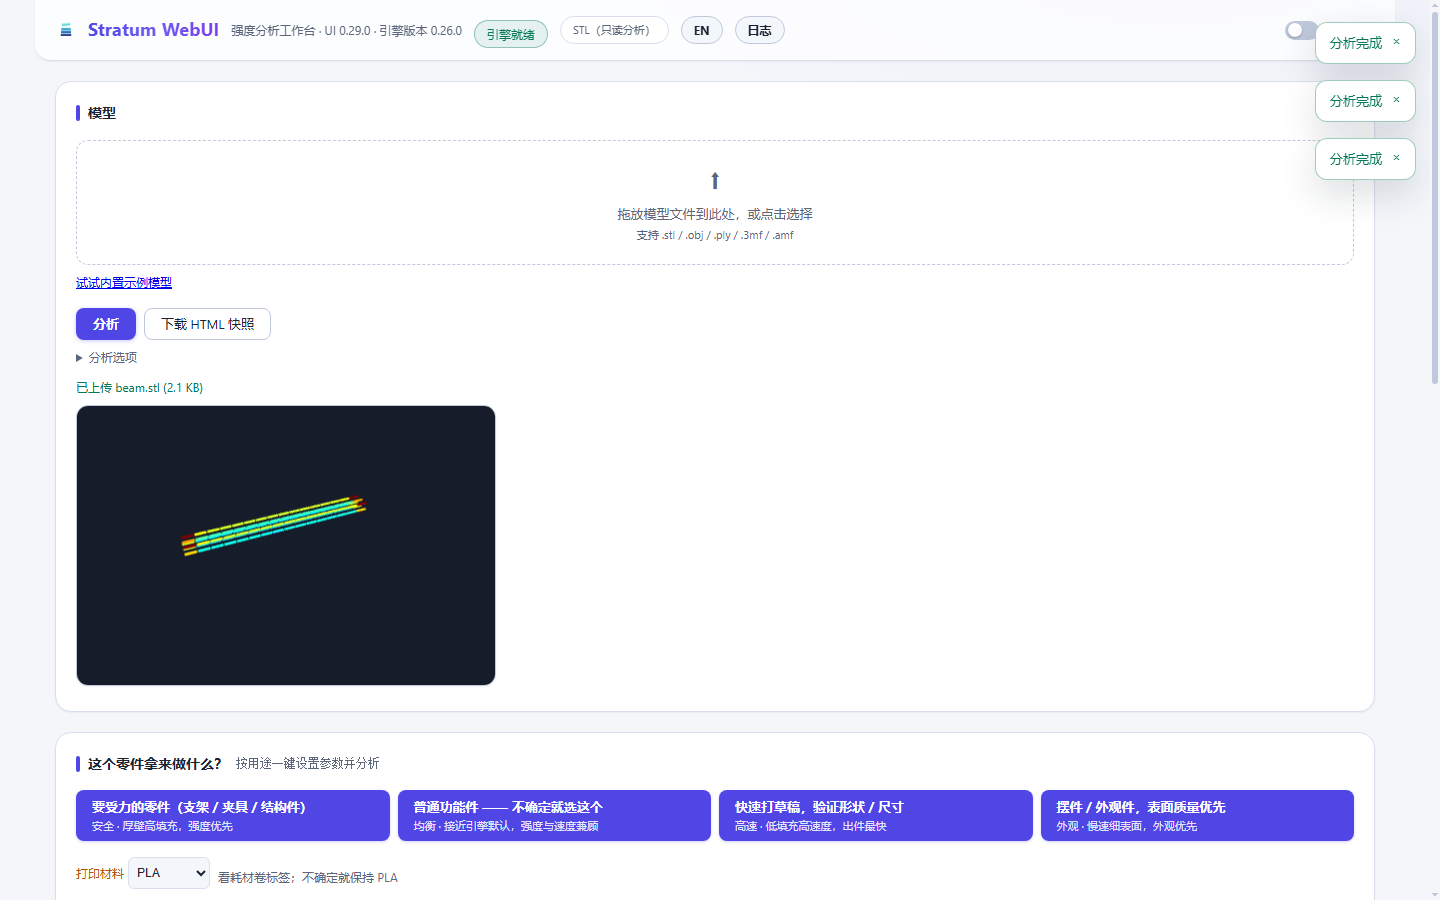
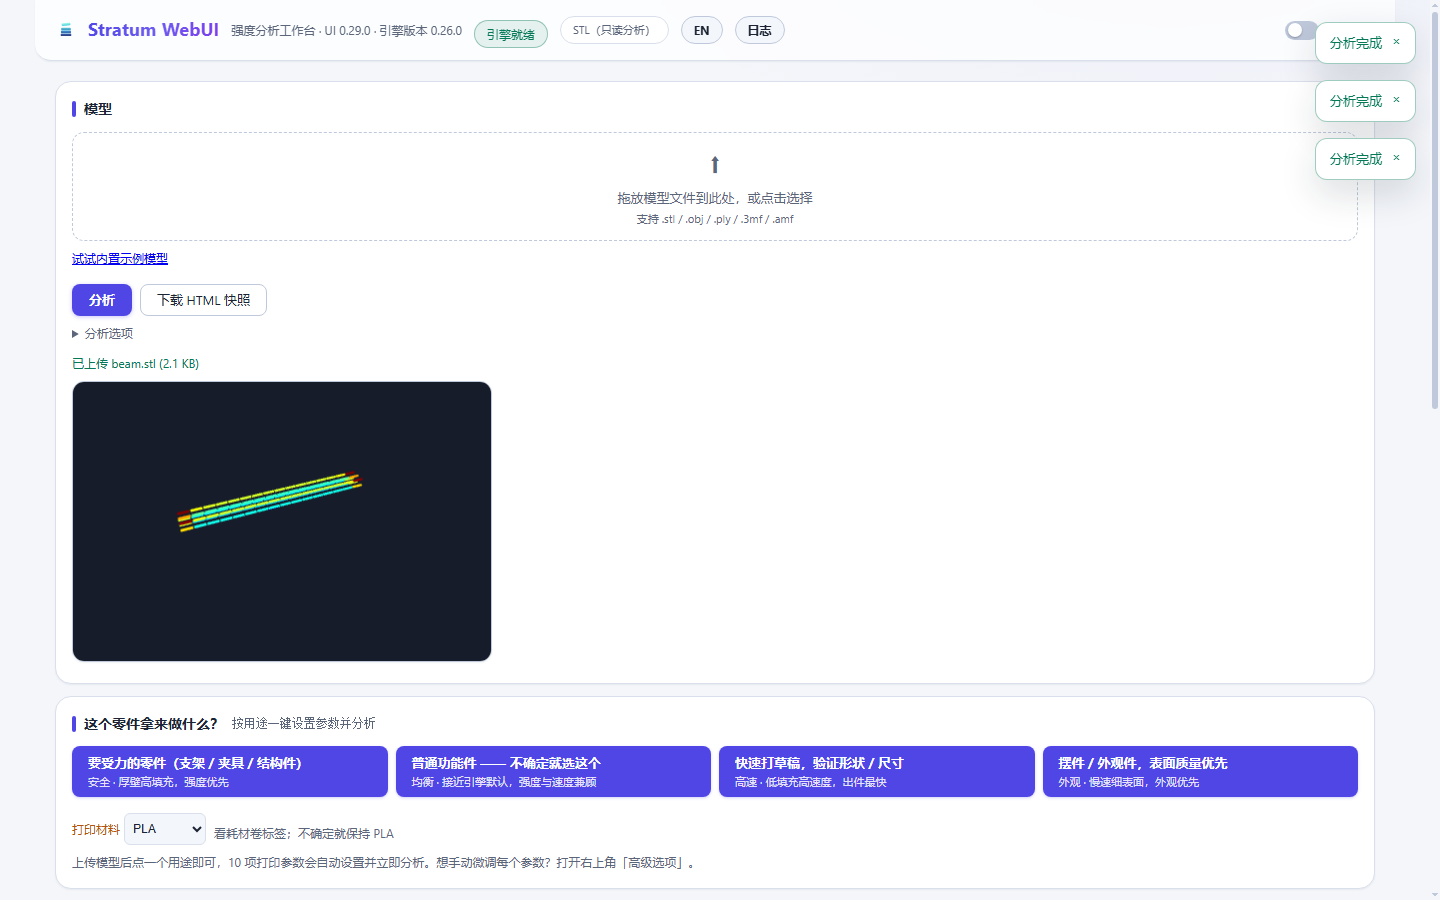
feat(webui): debt-payment round — page-height budget guarded in E-suite with risky-shape reclaim, popup panel-swap orphan closed, interlaminar dead key removed (v0.30.0)
C1: refuter-exposed live regression — risky beam (rank2 simple page) measured
2408px vs the 2200 budget while the canonical shape sat at 2118; density pass
(simple-mode scoped: panel rhythm, risk-item one-lining, ui-drop) reclaims to
2137/1986, and E13h+E17h now assert scrollHeight<=2200 on every suite pass
(ad-hoc tests/_height_v029.js superseded, deleted). mode-simple asserted
positively (mode-advanced is never assigned — negation would be a dead limb).
C2: showGcodeResultPanel now closes the term popup at the panel-swap funnel
(last orphan site outside renderReport's hook); guard triggers the swap by
direct call (guard-masking-e2e discipline) and asserts the open step itself.
C3: TERM_INFO.interlaminar deleted as a dead key (zero termQ consumers) along
with its LANG_EN entry; render pin at :840 verified to bite on the
delamination text (label renamed to match what it actually checks).
C4/C5/C6: engine probe + mismatch verdict recorded in loop-journal (PETG
cross-section yields 2 applyable but exhausts in one round — multi-round
auto-tune E2E stays synthetic; mismatch zero-constellation is multi-cause,
UI must state facts not causes — implementation deferred to v0.31).

smoke 157/157, render_check 195, ux_alignment all green (+3 guards),
browser/browser_en/i18n(0)/consistency green; sabotage x4 all red all
reverted.

diff --git a/tests/ux_alignment_check.js b/tests/ux_alignment_check.js
@@ -616,6 +616,24 @@ async function main() {
            && sampleState.autoTune === false,
            JSON.stringify(sampleState));
 
+    // ---- E13h (v0.30) page-height budget: canonical beam, simple mode ----
+    // The ≤2200px budget (@1440×900, ROADMAP/README) lived in a comment +
+    // an ad-hoc script nobody re-ran (+176px crept in over v0.19–v0.27,
+    // v0.29 B3) — now it is guarded on every suite pass. Conditions match
+    // the published口径: fresh sample session, simple mode, detail wall
+    // folded, toasts position:fixed (never in scrollHeight); the beat
+    // lets the toast fade finish. mode-simple is asserted POSITIVELY
+    // (a `!mode-advanced` limb would be a always-true dead check — the
+    // class is never assigned anywhere).
+    await sleep(600);
+    const hA = JSON.parse(await evalJs("(function(){return JSON.stringify({" +
+      "h:document.documentElement.scrollHeight," +
+      "simple:document.body.classList.contains('mode-simple')," +
+      "wallOpen:document.body.classList.contains('detail-open')})})()"));
+    expect("E13h height: canonical beam simple page ≤2200 (budget)",
+           hA.simple === true && hA.wallOpen === false && hA.h <= 2200,
+           JSON.stringify(hA));
+
     // ---- E14 (v0.27) use-case preset cards + the material question -------
     const pq = JSON.parse(await evalJs("(function(){var h=" +
       "document.querySelector('#preset-panel h2');" +
@@ -796,6 +814,24 @@ async function main() {
     await waitDone("re-run for orphan guard");
     expect("E17 popup: re-render closes the card (no orphan on dead trigger)",
            !(await evalJs("!!document.getElementById('term-pop')")));
+    // panel-swap orphan (v0.30 C2): open a card, then swap the right column
+    // to the gcode result with a DIRECT call — a click-based trigger would
+    // close the card via click-outside and mask the guard (guard-masking-e2e,
+    // same discipline as the re-render guard above). The open step itself
+    // is asserted: without it a missing .term-q would idle through to a
+    // vacuous green (refuter 104).
+    const popOpened = await evalJs("(function(){var q=document.querySelectorAll('.term-q');" +
+      "if(!q.length)return false;q[0].click();" +
+      "return !!document.getElementById('term-pop')})()");
+    const swapOrphan = await evalJs("(function(){" +
+      "if(typeof showGcodeResultPanel!=='function')return 'nofn';" +
+      "showGcodeResultPanel(true);" +
+      "var gone=!document.getElementById('term-pop');" +
+      "showGcodeResultPanel(false);" +  // restore the model result column
+      "return gone})()");
+    expect("E17 popup: gcode panel swap closes the card (direct call)",
+           popOpened === true && swapOrphan === true,
+           "opened=" + popOpened + " swap=" + swapOrphan);
     // error-card actions on the real page (no server dependency: direct call)
     const memBtns = await evalJs("(function(){renderAnalyzeError({error:'stratum.exe 失败 (rc=3): std::bad_alloc'});" +
       "var b=document.getElementById('analyze-error');" +
@@ -808,6 +844,21 @@ async function main() {
       "return b.style.display})()");
     expect("E17 error card: queue-full hint rendered then cleared",
        qHint === "none");
+
+    // ---- E17h (v0.30) page-height budget: risky beam = the worst shape ---
+    // rank2 carries every tall element at once (buckling banner + expanded
+    // risk card + auto-tune CTA + novice line + raw-fold summary); it
+    // measured 2408 before the v0.30 density pass while the canonical
+    // shape sat at 2118 — guarding only the comfortable fixture would
+    // have masked a live regression (refuter 104). Same口径 as E13h.
+    await sleep(600);
+    const hB = JSON.parse(await evalJs("(function(){return JSON.stringify({" +
+      "h:document.documentElement.scrollHeight," +
+      "simple:document.body.classList.contains('mode-simple')," +
+      "wallOpen:document.body.classList.contains('detail-open')})})()"));
+    expect("E17h height: risky beam simple page ≤2200 (worst shape)",
+           hB.simple === true && hB.wallOpen === false && hB.h <= 2200,
+           JSON.stringify(hB));
 
     console.log(fails === 0 ? "ux alignment E2E all green"
                             : fails + " FAILURES");

diff --git a/index.html b/index.html
@@ -523,9 +523,26 @@
      task-flow cap (centered, then left-aligned in v0.21) produced two
      panel widths on one page next to the full-width results stack — user
      verdict: stacked cards must be equal-width. Full-width it is; the
-     page-height budget (≤2200px on the beam sample, 1440×900) is re-
-     measured ad hoc per round (v0.18: 2197 → v0.27 accumulation broke it
-     at 2376 → v0.29 bars-to-wall reclaim: 2118). */
+     page-height budget (≤2200px on the beam sample, 1440×900) is GUARDED
+     in the ux_alignment suite since v0.30 (real beam runs E13h/E17h —
+     drift turns red instead of accumulating silently; history: v0.18 2197
+     → v0.27 accumulation 2376 → v0.29 bars-to-wall 2118 → v0.30 risky
+     shape 2408 → density pass below). */
+  /* v0.30 density pass (simple mode only — advanced keeps its roomier
+     rhythm): the risky-beam shape (rank2: banner + expanded risk card +
+     auto-tune CTA + novice line) measured 2408 against the same ≤2200
+     budget the canonical beam was reclaimed to in v0.29. Panel rhythm and
+     risk-list density carry the reclaim; no evidence is folded away (the
+     ⚠ auto-expand and the raw-table outlet invariant are untouched). */
+  body.mode-simple .panel { padding: var(--sp-4); margin-bottom: var(--sp-3); }
+  body.mode-simple .panel h2 { margin-bottom: var(--sp-3); }
+  body.mode-simple .ui-drop { padding: var(--sp-3) var(--sp-4); }
+  /* risk evidence: one flowing line per entry — the suggestion hint
+     inlines after the engine's description instead of taking its own
+     block row (halves the expanded card on real models with many risks) */
+  body.mode-simple .risk-item { padding: var(--sp-1) 0; }
+  body.mode-simple .risk-item .hint { display: inline; }
+  body.mode-simple .risk-item .hint::before { content: " "; }
   /* inverse of .advanced-only: flow-only chrome (step strip) — hidden
      whenever advanced mode is on */
   body:not(.mode-simple) .simple-only { display: none !important; }
@@ -2768,6 +2785,12 @@ var gcodeState = { mode: "score", a: null, b: null, t0: 0, timer: null };
 function showGcodeResultPanel(on) {
   $("gcode-result-panel").style.display = on ? "" : "none";
   $("result-panel").style.display = on ? "none" : "";
+  // v0.30: the term popup is a singleton on document.body and outlives its
+  // trigger rows — a panel swap hides (or rebuilds) the model result area
+  // but would leave the card hovering over nothing. This funnel is the
+  // last panel-swap site outside renderReport's own closeTermPop hook
+  // (refuter 102 minor; all three callers pass through here).
+  if (typeof closeTermPop === "function") closeTermPop();
 }
 
 function gcodeSyncMode() {
@@ -4430,8 +4453,8 @@ var LANG_EN = {
     "Hill48 yield criterion: accounts for FDM print anisotropy (X/Y/Z strength differs) — closer to real interlayer strength than isotropic von Mises.",
   "Weibull 统计强度：把材料内部缺陷分布计入的可靠性模型。Pf=失效概率，R=可靠度；等级 A+ 为最优。":
     "Weibull statistical strength: reliability model accounting for the internal defect distribution. Pf = failure probability, R = reliability; grade A+ is best.",
-  "层间强度（Z/XY）：FDM 件层与层之间靠热融合连接，Z 方向（垂直于层平面）通常只有 XY 的 30–60%，是最常见的失效面。":
-    "Interlayer strength (Z/XY): FDM layers bond by thermal fusion; Z (perpendicular to the layers) typically reaches only 30–60% of XY — the most common failure plane.",
+  // (v0.30) the standalone interlayer-strength TERM_INFO entry and its
+  // translation were removed together — dead key, zero consumers
   "分层（delamination）：层间结合失效，载荷沿层界面拉开——FDM 件在 Z 向载荷下的典型失效模式；与层间强度 Z/XY 直接相关。":
     "Delamination: interlayer bond failure, the load pulls along layer interfaces — the typical FDM failure mode under Z loads; directly related to the Z/XY interlayer strength.",
   "热应力：打印过程不均匀冷却留下的残余应力；服役温度变化会叠加到载荷应力上（引擎标注 (上界) 时为保守估计）。":

diff --git a/report.js b/report.js
@@ -11,7 +11,10 @@
 var TERM_INFO = {
   hill48: "Hill48 屈服准则：考虑 FDM 打印各向异性（X/Y/Z 方向强度不同）的屈服判定，比各向同性的 von Mises 更贴近层间真实强度。",
   weibull: "Weibull 统计强度：把材料内部缺陷分布计入的可靠性模型。Pf=失效概率，R=可靠度；等级 A+ 为最优。",
-  interlaminar: "层间强度（Z/XY）：FDM 件层与层之间靠热融合连接，Z 方向（垂直于层平面）通常只有 XY 的 30–60%，是最常见的失效面。",
+  // (v0.30) a standalone `interlaminar` entry used to live here — deleted
+  // as a dead key: zero consumers (termQ sites are hill48/thermal_stress/
+  // delamination/weibull only). The layer-strength concept stays alive
+  // inside the delamination text below.
   delamination: "分层（delamination）：层间结合失效，载荷沿层界面拉开——FDM 件在 Z 向载荷下的典型失效模式；与层间强度 Z/XY 直接相关。",
   thermal_stress: "热应力：打印过程不均匀冷却留下的残余应力；服役温度变化会叠加到载荷应力上（引擎标注 (上界) 时为保守估计）。",
 };

diff --git a/tests/report_render_check.js b/tests/report_render_check.js
@@ -837,7 +837,10 @@ d25t.phase_c.max_delamination_risk = 0.000123;
 d25t.phase_c.hill48_safety_factor = 2.5;
 d25t.phase_d.weibull_ran = true;
 rerender(d25t);
-expect("v0.10: delamination hint carries the interlaminar glossary",
+expect("v0.10: delamination hint carries the layer-strength glossary note",
+       // v0.30: matches TERM_INFO.delamination's own text (「与层间强度
+       // Z/XY 直接相关」) — the standalone interlaminar key was deleted
+       // as a dead entry; this pin keeps biting on the real text
        findTitle(elements["phase-c-detail"], "层间强度") !== null);
 expect("v0.10: phase-d Weibull row carries the reliability glossary",
        findTitle(elements["phase-d-detail"], "缺陷分布") !== null);

diff --git a/server.py b/server.py
@@ -165,7 +165,7 @@ def _validated_float(raw, lo, hi):
 #         discloses gcode_diff_available; companion absence hides the panel
 #         (degrade, never a blocker); console channel = stderr (the
 #         one-line summary lives there, unlike stratum.exe's stdout).
-UI_VERSION = "0.29.0"
+UI_VERSION = "0.30.0"
 
 # PORT is consumed by the bind call (int); GRID is consumed by argv (kept as
 # the original string — a list argv with an int element raises TypeError and

diff --git a/ROADMAP.md b/ROADMAP.md
@@ -929,6 +929,53 @@
       全绿；安装包 verify 全绿；sabotage ×2 刀（分类器恒 False→T109b/c/d 红；
       sample 断言换不可能模式→verify FAIL）翻红后还原
 
+### v0.30.0 — 债务清偿轮：页高预算守卫化 + 弹卡孤儿收尾 + 死键清理（2026-10-05）
+
+> 背景：清偿 v0.28/v0.29 两轮遗留 backlog（页高无自动守卫 / 弹卡锚点滞留 /
+> interlaminar 死键 / 建议面探针复验 / mismatch 切片定案）。独立 REFUTE 一轮
+> （VERDICT: REJECT——**实验实证 risky-beam 形状 2408px 现行超预算 208px**，
+> 初版守卫点位会掩蔽这条活回归，详见 loop-journal 迭代 104）。
+
+- [x] **C1 页高预算入 E 系列 + risky 形状回收**：refuter 复刻 E17 末态实测
+      beam_60x5x1p5（rank2：横幅+展开风险卡+自动调参+摘要行全在）= **2408px
+      超预算 208**——v0.27 三件套从未在其触发形状上复测（iter 103 预言的债）。
+      回收=simple 域密度通行（panel padding/margin 收一档、风险条目「建议」hint
+      行内化+行距减半、ui-drop 收紧；⚠ 自动展开与 raw 表出口不变式不动）→
+      risky **2137** / canonical **1986**，双双 ≤2200。守卫=E13h（canonical）
+      + E17h（risky=最坏形状）双断言挂 ux_alignment 真跑（mode-simple 正向
+      判定——`mode-advanced` 类全仓零赋值，反向判定是恒真死肢）；ad-hoc 脚本
+      tests/_height_v029.js 删除（被取代）。跨机器注记：绝对页高 pin 沿用
+      1440×900 同口径（v0.19 裁决），套件本身已 win32+Chrome 路径绑定，余量
+      63px（risky）覆盖轻微字体度量漂移
+- [x] **C2 弹卡锚点滞留收尾**（refuter 102 minor）：showGcodeResultPanel
+      切换只隐藏宿主面板不关 #term-pop（单例挂 body）——gcode 跑完切走时
+      弹卡滞留。修法=funnel 内 closeTermPop（三调用点全收）；守卫孤立化直调
+      切换路径（无点击），开卡步骤自身断言（防 .term-q 缺失空转绿灯）
+- [x] **C3 interlaminar 死键清理**：TERM_INFO.interlaminar 零消费（termQ 位点
+      仅 hill48/thermal_stress/delamination/weibull），report_render:840 断言
+      实际比对 delamination 词条文本（其含「层间强度」子串）——核实后删除键
+      + LANG_EN 对应词条横扫，测试标签同步改写；咬合证明=临时抽掉
+      delamination 文本→断言红。裁决：不接线（层间强度数值行不存在，自造行
+      违反「引擎是唯一事实源」）
+- [x] **C4 建议面探针复验**（engine 0.26.0）：默认 PLA 维持 ≤1 applyable
+      （iter 101 口径）；PETG 截面=2 applyable（nozzle_temperature 进入建议面）
+      但应用两建议后重跑 items=0——**多轮链仍不可达**，auto-tune E2E 维持 §29
+      合成覆盖（v0.27 挂账继续挂，引擎队压力点在案）
+- [x] **C5 mismatch 切片引导定案**（journal 落盘，实现升格 v0.31）：真跑
+      beam+a.gcode——星座 candidates=0/tuned=0/coverage_pct=0.0/
+      excluded_feature=13(=挤出段总数)/pcr=0.004，引擎无专用 mismatch 字段，
+      零域跨因歧义（几何不匹配/特征排除/热区门槛三因同象）→ UI 只能陈述
+      事实句（keyed on tuned===0）+可能因核对清单，不得断言成因
+- [x] **C6 首启文案走查**：换位披露措辞小白可懂（主事实+浏览器自动开新址+
+      banner 重复实际地址）；server.py 文案 ↔ README 端口段 ↔ verify-installer
+      动态端口三方口径一致，不改
+- 配套：README 测试数 152→157 修正（v0.29 漏更的 stale-doc）；UI_VERSION 0.30.0
+- 验证：smoke **157/157**；render_check **195**（:840 标签改写，断言不动）；
+      ux_alignment 全绿（+E13h/E17h/C2 守卫 3 项）；browser/browser_en/i18n
+      （FAIL 0，intentional 13）/consistency 全绿；sabotage ×4 刀（上限 2000→
+      E17h 红、上限 1900→E13h 红、注释 closeTermPop→swap 守卫红、抽 delamination
+      文本→:840 红）全部翻红后还原
+
 ### v1.0 — 方向四：3D 可视化（半数被引擎契约卡住，见 D2）
 
 

diff --git a/README.md b/README.md
@@ -453,7 +453,7 @@ curl -F "" ...   # 或直接用浏览器上传 test_data/beam_100x10x4.stl
 
 ## 测试（v0.8 后）
 
-`python tests/test_smoke.py`（需 `bin/stratum.exe`）：152 检查，含三层渲染验证——
+`python tests/test_smoke.py`（需 `bin/stratum.exe`）：157 检查，含三层渲染验证——
 T56 node 桩解析器检查（stl_nan_check.js）、T57 真 helpers 注入渲染检查
 （report_render_check.js，含 numEnv v2/v3 双形态契约与 v0.8.1 全部新块），
 T58 无头 Chrome CDP 端到端
